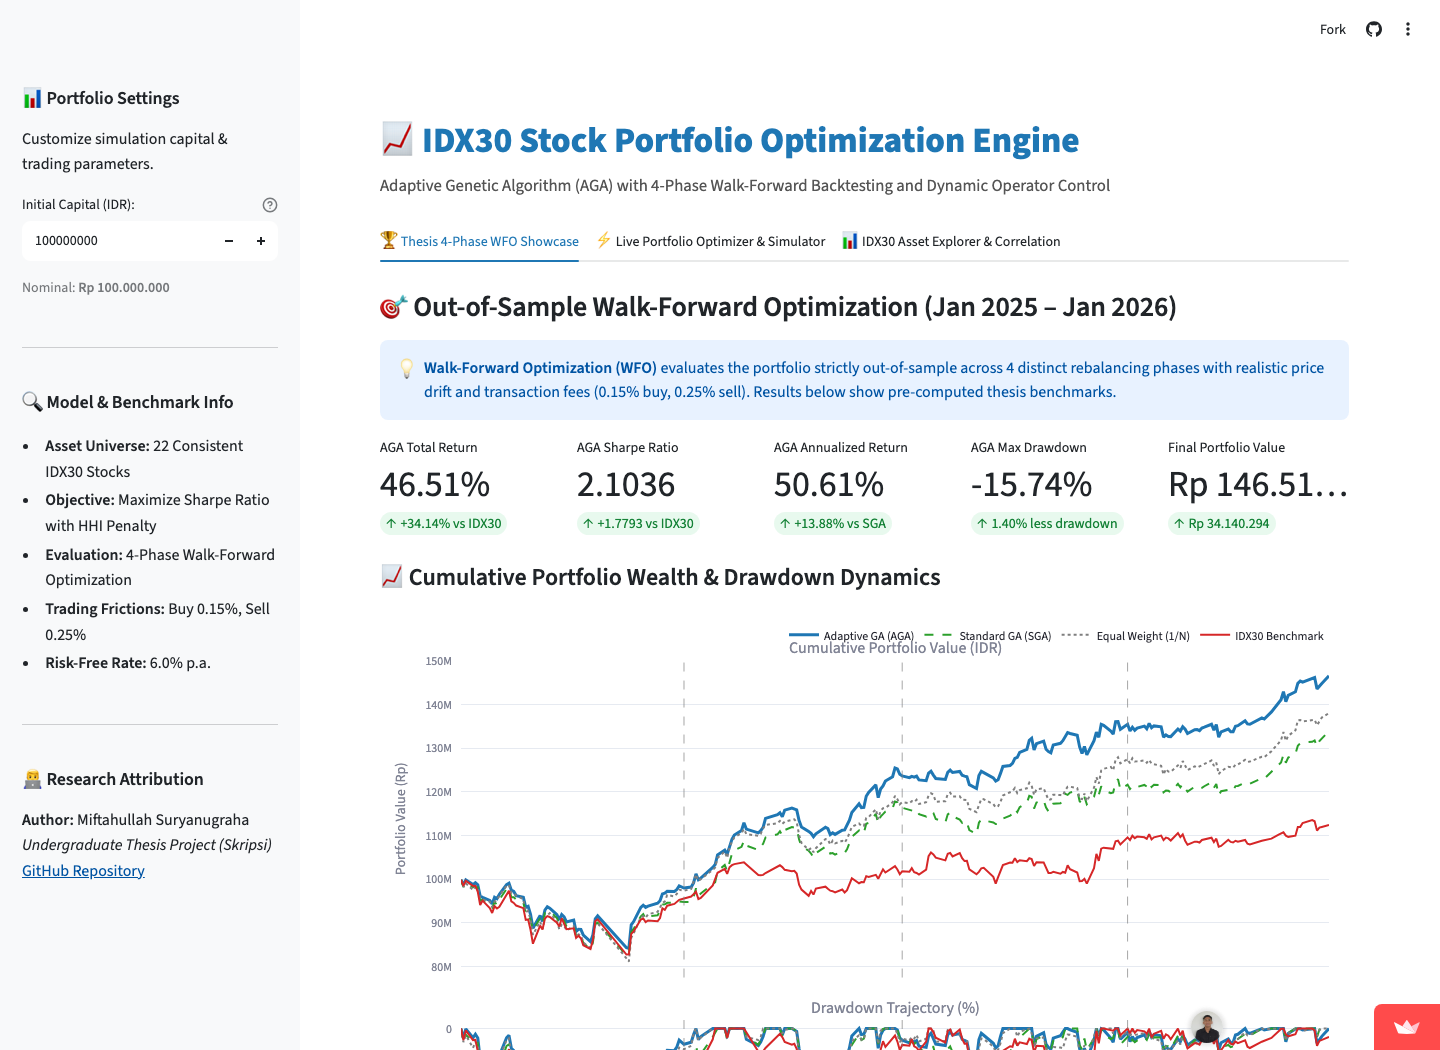
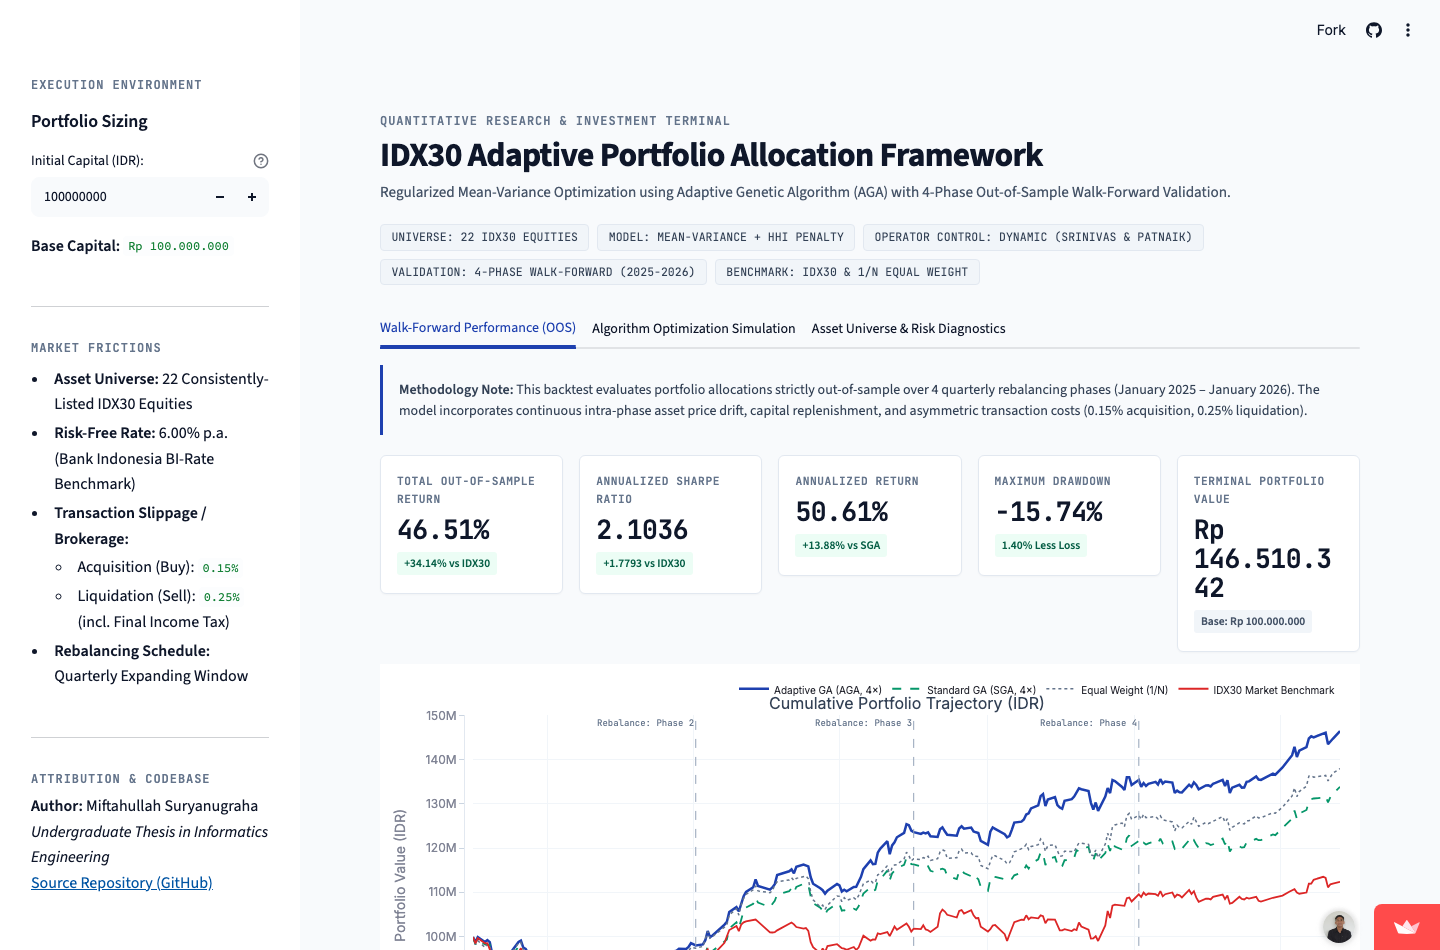
feat(project-01): update institutional Streamlit quant terminal preview & comprehensive documentation

diff --git a/src/content/id/projects/proyek-1.md b/src/content/id/projects/proyek-1.md
@@ -6,7 +6,7 @@ role: "Machine Learning (Proyek Skripsi)"
 period: "2025 - 2026"
 summary: "Eksplorasi optimasi bobot portofolio saham IDX30 menggunakan Adaptive Genetic Algorithm (AGA) dan validasi Walk-Forward berbasis Python & Streamlit."
 problem: "Metode Mean-Variance statis rentan optimum lokal, konsentrasi risiko ekstrem, dan mengabaikan friksi biaya transaksi riil."
-approach: "Mesin AGA berpenalti diversifikasi HHI dan batas alokasi 20%, diuji via 4 fase Walk-Forward dan dideploy ke terminal riset Streamlit."
+approach: "Mesin AGA berpenalti diversifikasi HHI dan batas alokasi 20%, diuji via 4 fase Walk-Forward dan dideploy ke terminal riset Streamlit bertaraf institusional."
 outcome: "Total Return 46,51% (vs IDX30 13,48%), Sharpe Ratio 2,1036 (vs 0,3767), Max Drawdown -15,74%, dan terbukti signifikan secara statistik (p < 0,001)."
 stack:
   - "Python"
@@ -20,14 +20,17 @@ stack:
 repoUrl: "https://github.com/miftahsuryan/idx30-portfolio-optimization-aga"
 demoUrl: "https://portfolio-optimization-aga.streamlit.app"
 coverImage: "src/assets/projects/AGA/streamlit_dashboard_preview.png"
-coverAlt: "Dasbor interaktif optimasi portofolio saham IDX30 berbasis Streamlit dan Plotly"
+coverAlt: "Dasbor terminal riset kuantitatif optimasi portofolio saham IDX30 berbasis Streamlit dan Plotly"
 gallery:
   - image: "src/assets/projects/AGA/streamlit_dashboard_preview.png"
-    alt: "Antarmuka terminal riset dan web dashboard interaktif Streamlit untuk simulasi alokasi portofolio saham IDX30"
-    caption: "Terminal Riset & Investasi Streamlit: Simulasi optimasi portofolio real-time & visualisasi bobot lot aset"
+    alt: "Antarmuka terminal riset kuantitatif dan web dashboard interaktif Streamlit untuk simulasi alokasi portofolio saham IDX30"
+    caption: "Terminal Riset & Investasi Kuantitatif Streamlit: Desain institusional FactSet/Bloomberg, simulasi real-time, dan kalkulator alokasi lot saham BEI"
   - image: "src/assets/projects/AGA/wfo_cumulative_equity_drawdown.png"
     alt: "Grafik perbandingan kurva pertumbuhan modal (equity curve) dan drawdown out-of-sample strategi AGA terhadap benchmark"
     caption: "Kinerja Out-of-Sample: Return kumulatif 46,51% mengungguli Standard GA (33,90%), Equal Weight (38,51%), dan Indeks IDX30 (13,48%)"
+  - image: "src/assets/projects/AGA/wfo_comparative_metrics_bar.png"
+    alt: "Diagram batang komparatif 6 metrik kinerja finansial out-of-sample strategi AGA terhadap seluruh benchmark"
+    caption: "Perbandingan Komprehensif 6 Metrik: Outperformance konsisten pada Total Return, Sharpe Ratio, dan perlindungan Max Drawdown"
   - image: "src/assets/projects/AGA/weights_allocation_aga_4phases.png"
     alt: "Diagram alokasi bobot portofolio saham IDX30 sepanjang 4 fase rolling Walk-Forward"
     caption: "Dinamika Alokasi Bobot: Pembatasan konsentrasi aset maksimum 20% melalui mekanisme perbaikan proporsional (repair mechanism)"
@@ -128,24 +131,41 @@ Untuk membuktikan bahwa keunggulan performa AGA bukan kebetulan stokastik, dilak
 
 ---
 
-## Arsitektur Terminal Riset & Web Dashboard (Streamlit App)
-Sistem dideploy secara publik sebagai aplikasi web interaktif di **Streamlit Community Cloud** ([portfolio-optimization-aga.streamlit.app](https://portfolio-optimization-aga.streamlit.app)) dengan arsitektur 3 tab riset utama:
+## Arsitektur Institutional Terminal Riset (Streamlit App)
+Aplikasi dideploy secara publik sebagai **Quantitative Research & Investment Terminal** bertaraf institusional di **Streamlit Community Cloud** ([portfolio-optimization-aga.streamlit.app](https://portfolio-optimization-aga.streamlit.app)):
 
-### 1. Tab 1 — Kinerja Walk-Forward Out-of-Sample (OOS)
-- **Scorecard KPI Presisi**: Total Return (+46,51%), Sharpe Ratio (2,1036), Annualized Return (50,61%), dan Nilai Akhir Portofolio (Rp 146,51 Juta).
-- **Kurva Portofolio Dual-Axis Plotly**: Visualisasi pertumbuhan modal nominal (IDR) dan kurva *peak-to-trough drawdown* (%) harian yang disinkronkan sepanjang 4 fase WFO dengan garis demarkasi rebalancing.
-- **Engine Alokasi Lot Saham BEI**: Menampilkan alokasi bobot kontinu yang langsung dikonversi menjadi rekomendasi jumlah lot saham riil (kelipatan 100 lembar) dan estimasi modal yang terpakai.
-- **Matriks Uji Signifikansi Statistik**: Tabulasi lengkap hasil uji Shapiro-Wilk, t-test, dan Wilcoxon per fase.
+### 1. Desain Antarmuka Institusional (FactSet / Bloomberg Aesthetic)
+- **Tipografi Finansial Modern**: Menggunakan kombinasi font *Inter* dan *JetBrains Mono* dengan skema warna monokromatik bersih dan bebas dari visual yang tidak perlu.
+- **Specification Badges Institusional**:
+  - `UNIVERSE: 22 IDX30 EQUITIES` — Konstituen saham blue-chip terlikuid dengan riwayat 3 tahun penuh.
+  - `MODEL: MEAN-VARIANCE + HHI PENALTY` — Maksimasi Sharpe Ratio terbobot penalti diversifikasi HHI.
+  - `OPERATOR CONTROL: DYNAMIC (SRINIVAS & PATNAIK)` — Kontrol probabilitas crossover ($P_c$) dan mutasi ($P_m$) adaptif.
+  - `VALIDATION: 4-PHASE WALK-FORWARD (2025-2026)` — Pengujian out-of-sample expanding window realistis.
+  - `BENCHMARK: IDX30 & 1/N EQUAL WEIGHT` — Tolok ukur kinerja terhadap pasar dan strategi pasif.
 
-### 2. Tab 2 — Simulasi Optimasi Algoritma Interaktif (Live AGA vs SGA)
-- **Pemilih Keranjang Saham Fleksibel**: Memungkinkan pengguna memilih sub-aset khusus dari 22 konstituen IDX30.
-- **Slider Parameter & Batasan**: Kontrol real-time untuk batas alokasi maksimum (`w_max`), bobot penalti HHI (`λ_div`), ukuran populasi (`M`), dan jumlah generasi (`G`).
-- **Eksekusi Komparatif Real-Time**: Menjalankan algoritma AGA dan Standard GA secara simultan dengan grafik Plotly komparasi kecepatan konvergensi fitness, diversitas populasi, dan trajektori adaptasi rate P_c & P_m.
+### 2. Panel Kontrol Lingkungan Eksekusi & Friksi Pasar (Sidebar)
+- **Portfolio Sizing Dinamis**: Pengguna dapat memasukkan modal investasi awal (dalam IDR, default Rp 100.000.000). Sistem secara dinamis menghitung alokasi nominal uang dan kebutuhan lot trading riil.
+- **Transparansi Friksi Pasar Nyata**:
+  - *Biaya Akuisisi (Beli)*: Komisi broker 0,15%.
+  - *Biaya Likuidasi (Jual)*: 0,25% (0,15% broker + 0,10% PPh Final transaksi bursa).
+  - *Risk-Free Rate*: 6,00% per tahun (mengacu pada benchmark BI-Rate Bank Indonesia).
+  - *Jadwal Rebalancing*: Kuartalan (*quarterly expanding window*) dengan continuous intra-phase asset price drift dan reinvestasi modal bersih.
 
-### 3. Tab 3 — Universe Aset & Diagnostik Risiko
-- **Risk-Return Efficient Frontier**: Diagram sebaran 22 aset konstituen IDX30 (Volatilitas Tahunan vs Return Tahunan) dengan visualisasi gradien warna Sharpe Ratio per saham.
-- **Heatmap Korelasi 22×22**: Matriks korelasi return harian antarsaham untuk memetakan diversifikasi pasangan aset non-korelatif.
-- **Trajektori Harga Ternormalisasi**: Visualisasi tren harga saham historis dengan basis awal 100 (*Base = 100*).
+### 3. Tiga Tab Riset Interaktif Terdedikasi
+- **Tab 1 — Walk-Forward Performance (OOS)**:
+  - *High-Precision KPI Scorecards*: Total Out-of-Sample Return (**46,51%**), Annualized Sharpe Ratio (**2,1036**), Annualized Return (**50,61%**), Maximum Drawdown (**-15,74%**), dan Terminal Portfolio Value (**Rp 146.510.342** dari modal Rp 100 Juta).
+  - *Kurva Harian Dual-Axis Plotly*: Trajektori pertumbuhan modal nominal (IDR) dan kurva drawdown (%) dengan garis demarkasi vertikal fase rebalancing (`Rebalance: Phase 2`, `Rebalance: Phase 3`, `Rebalance: Phase 4`).
+  - *Actionable IDX Lot Allocation Engine*: Mengonversi bobot kontinu $\mathbf{w}$ menjadi rekomendasi lot saham bulat riil sesuai aturan BEI (**1 Lot = 100 lembar**) dan estimasi modal terpakai:
+    `Jumlah Lot_i = ⌊ (w_i × Modal Investasi) / (Harga_i × 100) ⌋`
+  - *Matriks Uji Hipotesis Statistik*: Tabulasi hasil uji Shapiro-Wilk, t-test, dan Wilcoxon per fase.
+- **Tab 2 — Algorithm Optimization Simulation (Live AGA vs SGA)**:
+  - *Custom Universe Selector*: Memilih sub-keranjang saham khusus dari 22 konstituen IDX30.
+  - *Hyperparameter & Constraint Sliders*: Kontrol real-time untuk batas alokasi maksimum (`w_max`), bobot penalti HHI (`λ_div`), ukuran populasi (`M`), dan jumlah generasi (`G`).
+  - *Live Evolutionary Execution*: Menjalankan algoritma AGA dan Standard GA secara simultan dengan grafik Plotly komparasi kecepatan konvergensi fitness, diversitas populasi, dan trajektori adaptasi rate P_c & P_m.
+- **Tab 3 — Asset Universe & Risk Diagnostics**:
+  - *Risk-Return Efficient Frontier*: Diagram sebaran 22 aset konstituen IDX30 (Volatilitas Tahunan vs Return Tahunan) dengan visualisasi gradien warna Sharpe Ratio per saham.
+  - *Heatmap Korelasi 22×22*: Matriks korelasi return harian antarsaham untuk memetakan diversifikasi pasangan aset non-korelatif.
+  - *Trajektori Harga Ternormalisasi*: Visualisasi tren harga saham historis dengan basis awal 100 (*Base = 100*).
 
 ---
 
